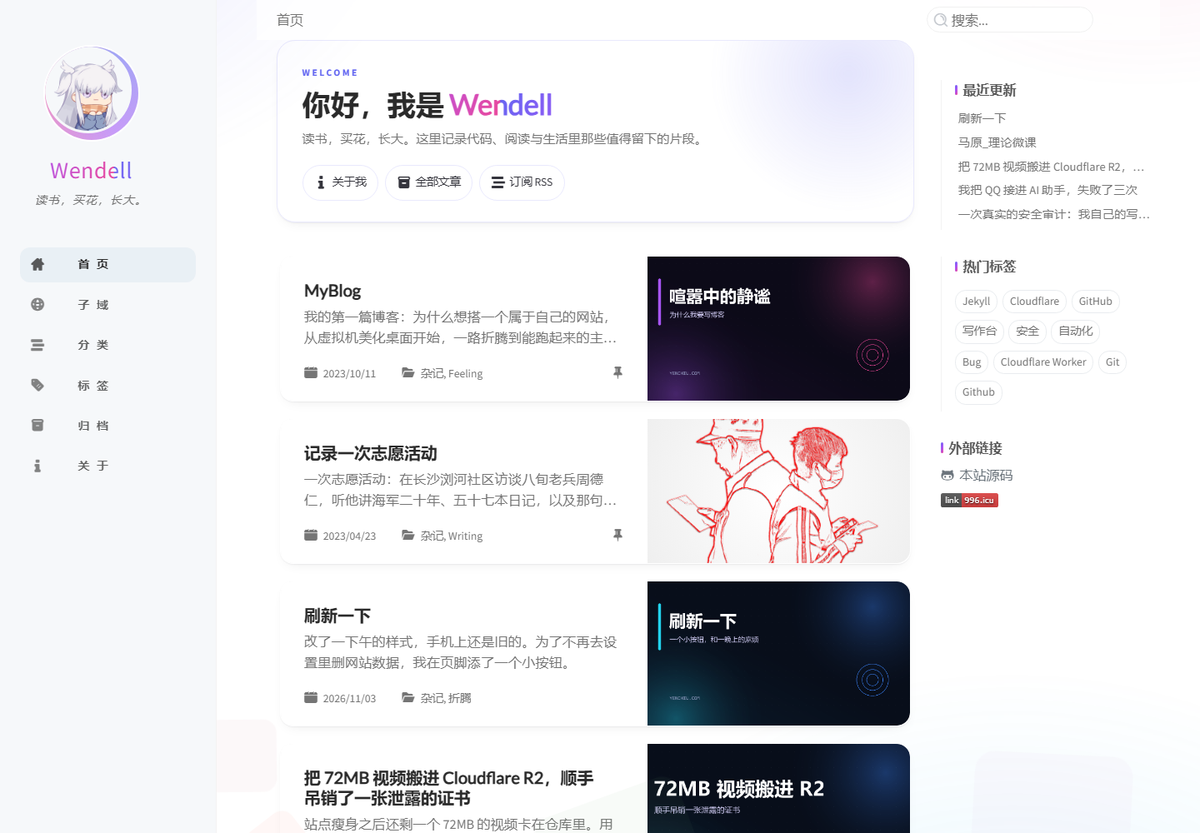
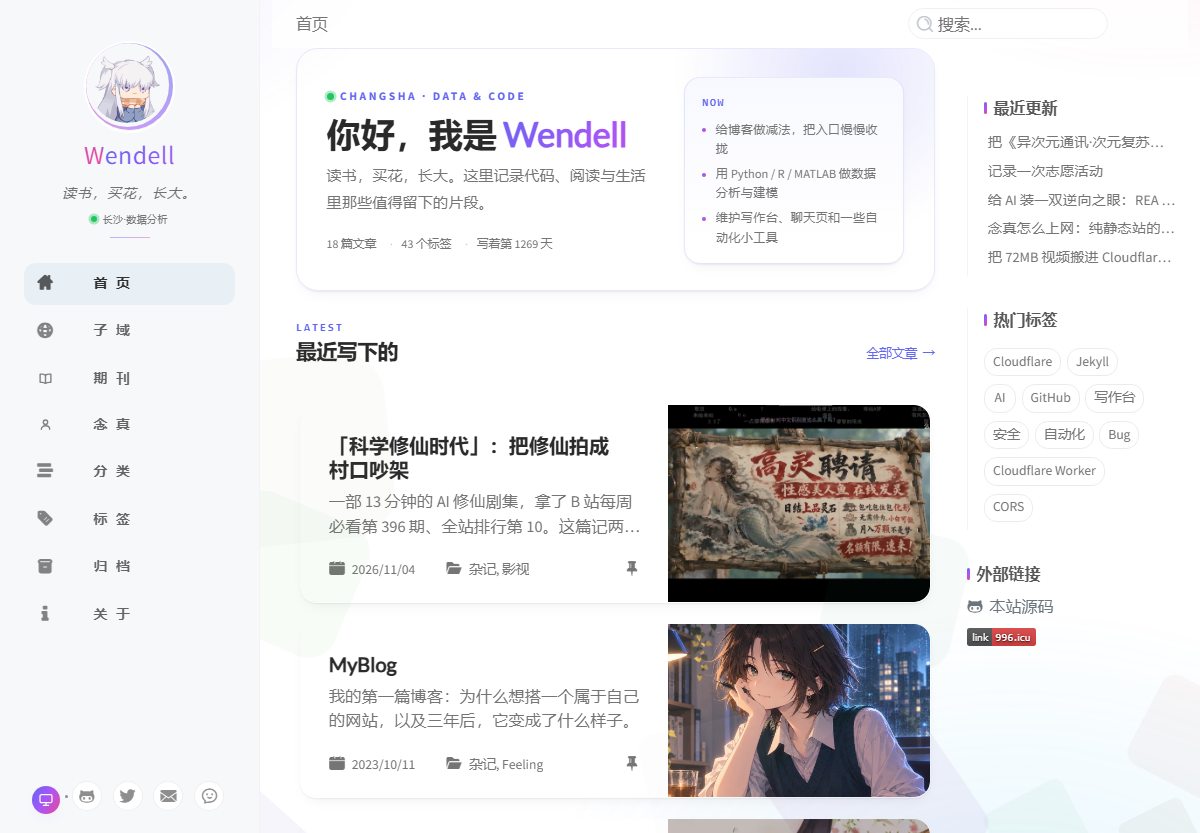
content(MyBlog): 补写三年后，换夜读封面并更新首页预览

diff --git a/_posts/2023-10-11-MyBlog.md b/_posts/2023-10-11-MyBlog.md
@@ -2,11 +2,11 @@
 title: MyBlog
 author: Wendell
 date: 2023-10-11 13:14:00 +0800
-description: 我的第一篇博客：为什么想搭一个属于自己的网站，从虚拟机美化桌面开始，一路折腾到能跑起来的主题。
+description: 我的第一篇博客：为什么想搭一个属于自己的网站，以及三年后，它变成了什么样子。
 categories: [杂记, Feeling]
 tags: [世界起源]
 pin: true
-image: /assets/img/posts/my-first-blog/cover.png
+image: /assets/img/posts/my-first-blog/cover.jpg
 ---
 
 # 喧嚣中的静谧
@@ -40,6 +40,20 @@ image: /assets/img/posts/my-first-blog/cover.png
 总之，我要开始新的旅途了。现在的社会就是这样：意识到自己倾尽全部也无法改变一些现实时会想躺平，但是却又不能心安理得地躺平，于是一直陷入焦虑、浮躁。
 
 我希望在这里的世界是豁达平静的。这是一个被精心打造的世界，每个人都能在这里收获独有的回忆，然后满载而归。
+
+## 三年后
+
+写上面这些话的时候，我还没想过这个站会留到今天。
+
+三年里，它换过样子。最初那套模板，我只会往里填字；后来一点点拆开，改首页、改侧栏、改文章页，也能自己写几段样式了。它仍然算不上漂亮，但已经是我能改的东西——当初那句「我没有能力去修改它」，现在可以说得不那么心虚。
+
+写字的地方也挪了。以前要打开电脑，开编辑器，推一次仓库；现在手机浏览器里就能写，图拖进去会自动压好，断网也不至于把稿子弄丢。工具没有让写字这件事变得更重要，只是让它少了一点借口。
+
+封面换成了夜里台灯下的一张画。有人伏在桌上，笔搁在手边，窗外的城市还亮着。它和「喧嚣中的静谧」这句话大概是一路的：外面再吵，总要有一小块地方，能把心放下来。
+
+三年前我说，搭这个博客是为了督促自己有自己的东西，逼迫自己学习新的知识，然后竭尽所能地把它说明白。这个初衷没有变。只是现在多了一层：除了说明白，还想把它留下来，留给以后某一天翻回来的自己。
+
+夜深了。台灯还亮着。
 
 <br/>
 
